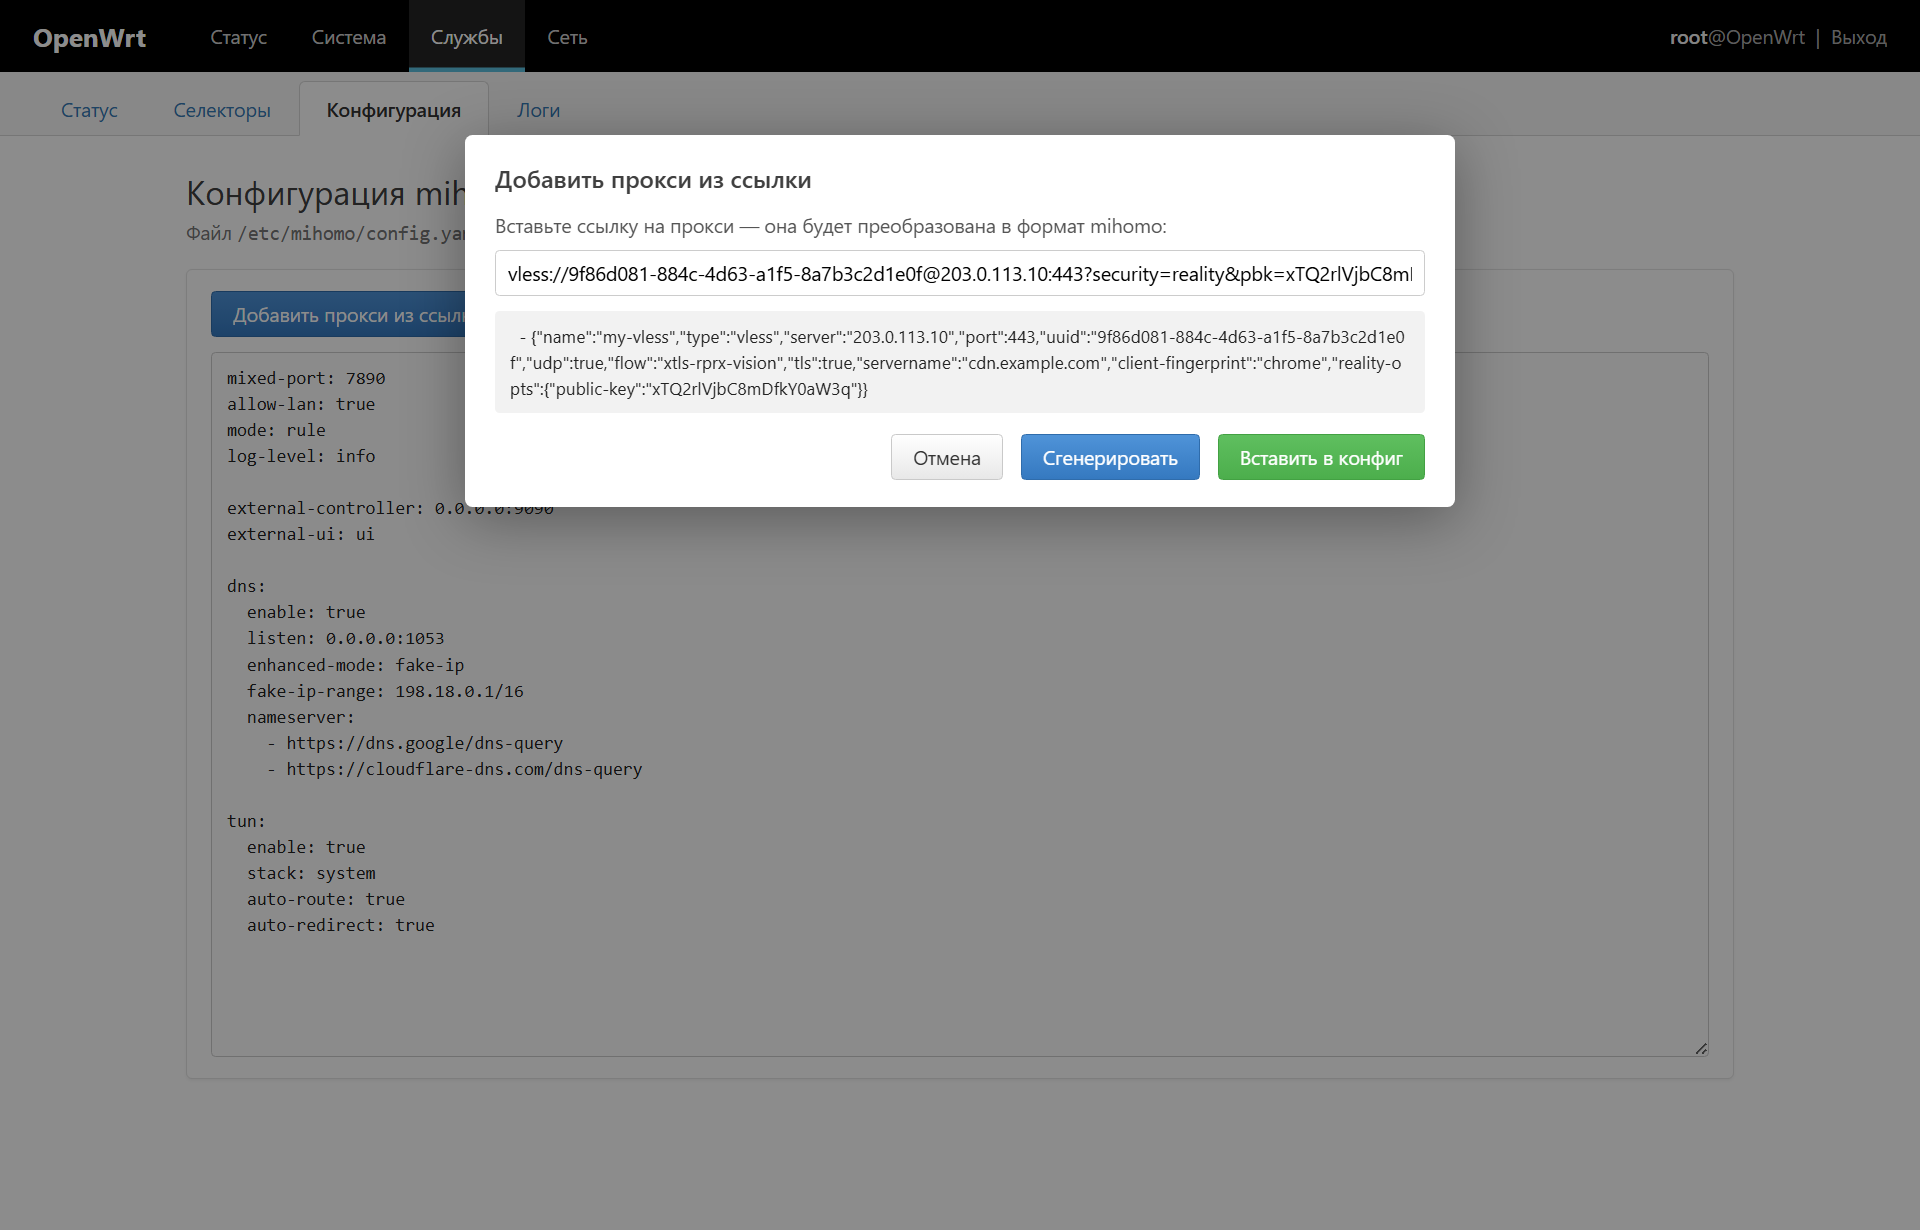
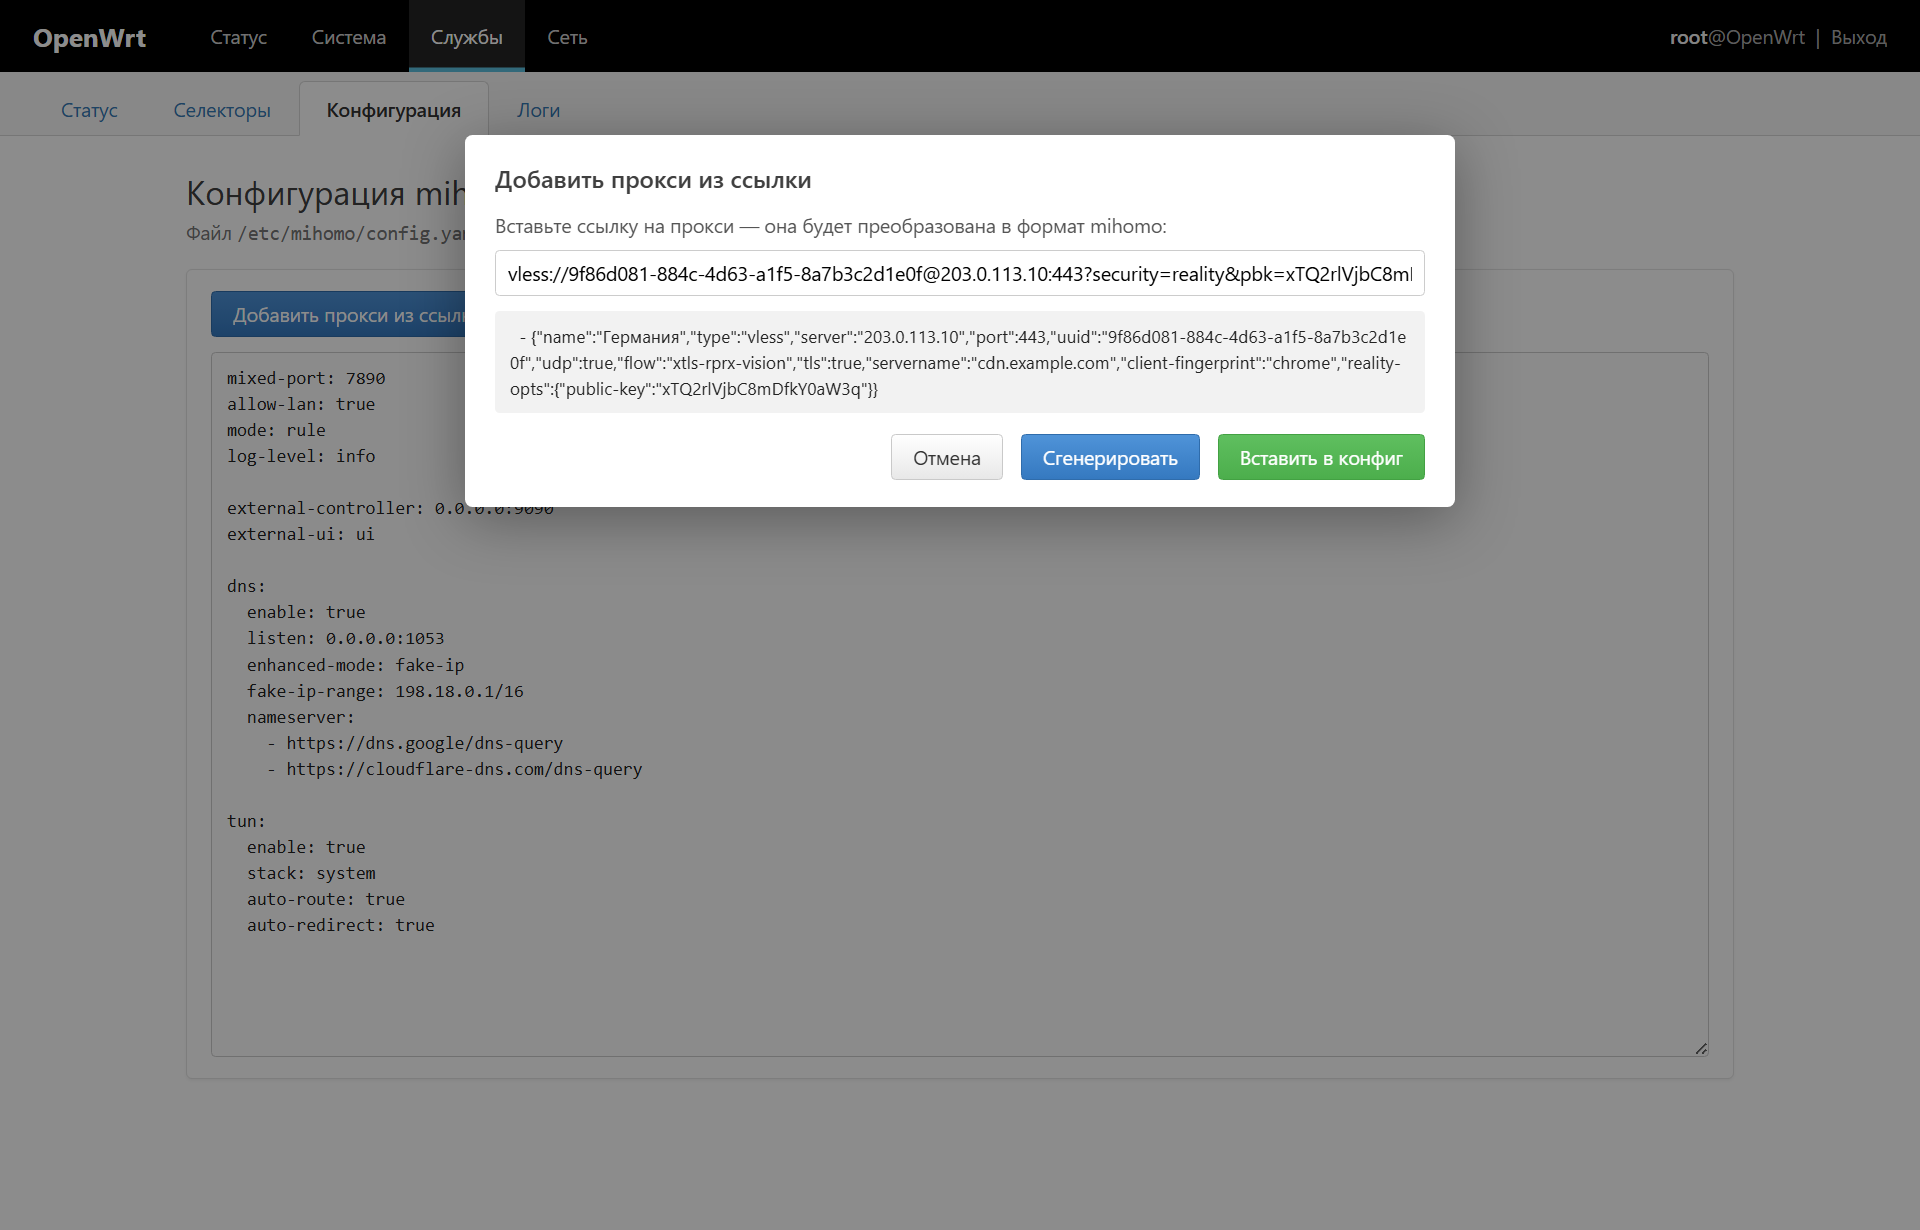
0.0.3: селектор «Весь трафик» (напрямую/прокси), DIRECT во всех группах
- Новая группа «Весь трафик» управляет финальным правилом MATCH:
  весь трафик напрямую или через прокси — переключается на вкладке Селекторы
- По умолчанию всё идёт напрямую; через прокси — только выбранные
  сервисы (например, YouTube и Twitch)
- DIRECT добавлен в «Заблок. сервисы» и AI — у каждой группы теперь
  есть выбор «напрямую / через прокси»
- «Весь трафик» добавлен также в дефолтный конфиг и минимальный шаблон —
  селектор работает сразу после установки
- Скриншоты: нейтральные примеры (Германия / Нидерланды / Финляндия)

Changed region(s): [[0.2812, 0.2472, 0.7188, 0.3398]]

diff --git a/README.md b/README.md
@@ -7,7 +7,7 @@
 ## Возможности
 
 - **Статус** — запуск/остановка/перезапуск mihomo, автозапуск, PID и потребление памяти
-- **Селекторы** — выбор активного прокси в группах прямо из LuCI (через Clash API): клик по карточке — выбрать, ⚡ — замерить задержки, обновление rule/proxy-провайдеров
+- **Селекторы** — выбор активного прокси в группах прямо из LuCI (через Clash API): клик по карточке — выбрать, ⚡ — замерить задержки, обновление rule/proxy-провайдеров. Главный переключатель **«Весь трафик» (напрямую/через прокси)** + у каждого сервиса свой выбор — можно пустить всё напрямую, а через прокси только выбранное (например, YouTube и Twitch)
 - **Ядра** — установка и обновление ядра mihomo с официального репозитория [MetaCubeX/mihomo](https://github.com/MetaCubeX/mihomo) (архитектура определяется автоматически)
 - **Компактный режим** — ядро хранится на флеше сжатым (~12 МБ вместо ~35) и распаковывается в RAM при старте; для роутеров с малым флешем (Cudy WR3000H и т.п.)
 - **Самообновление** — обновление самой панели с GitHub-релизов в один клик
@@ -24,7 +24,7 @@
 
 ![Статус](docs/status.png)
 
-**Селекторы** — выбор активного прокси в группах, замер задержек, обновление провайдеров:
+**Селекторы** — «Весь трафик» (напрямую/прокси), выбор прокси для каждого сервиса, замер задержек, обновление провайдеров. На примере: всё напрямую, а YouTube и Twitch — через прокси:
 
 ![Селекторы](docs/selectors.png)
 
